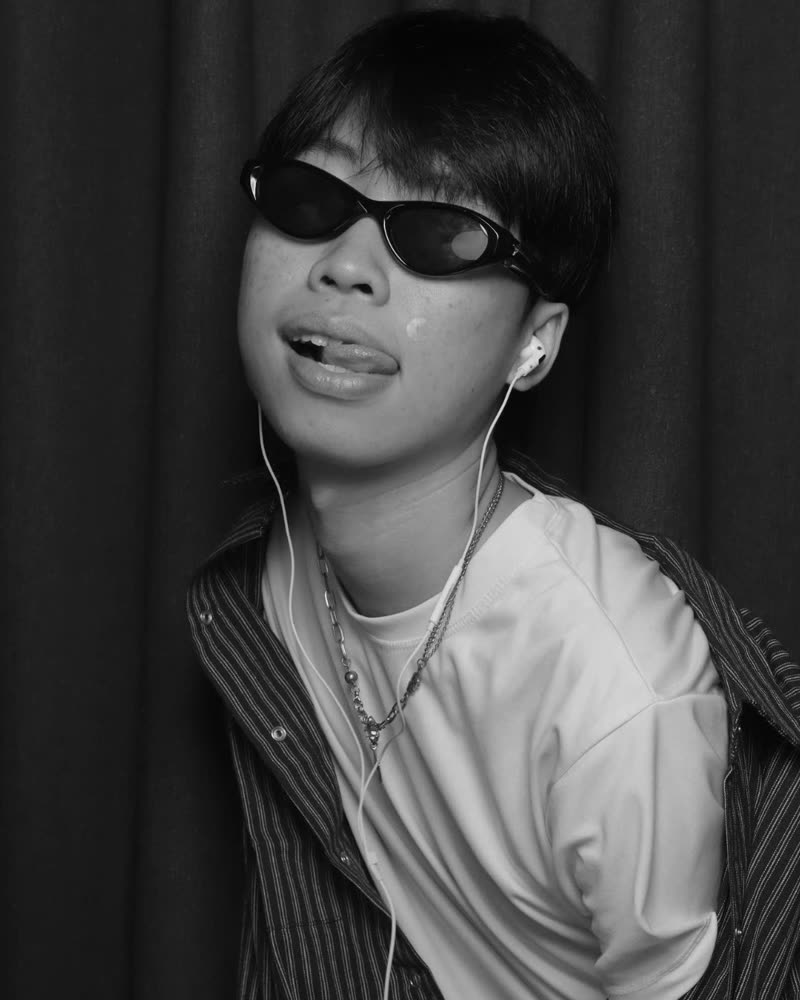
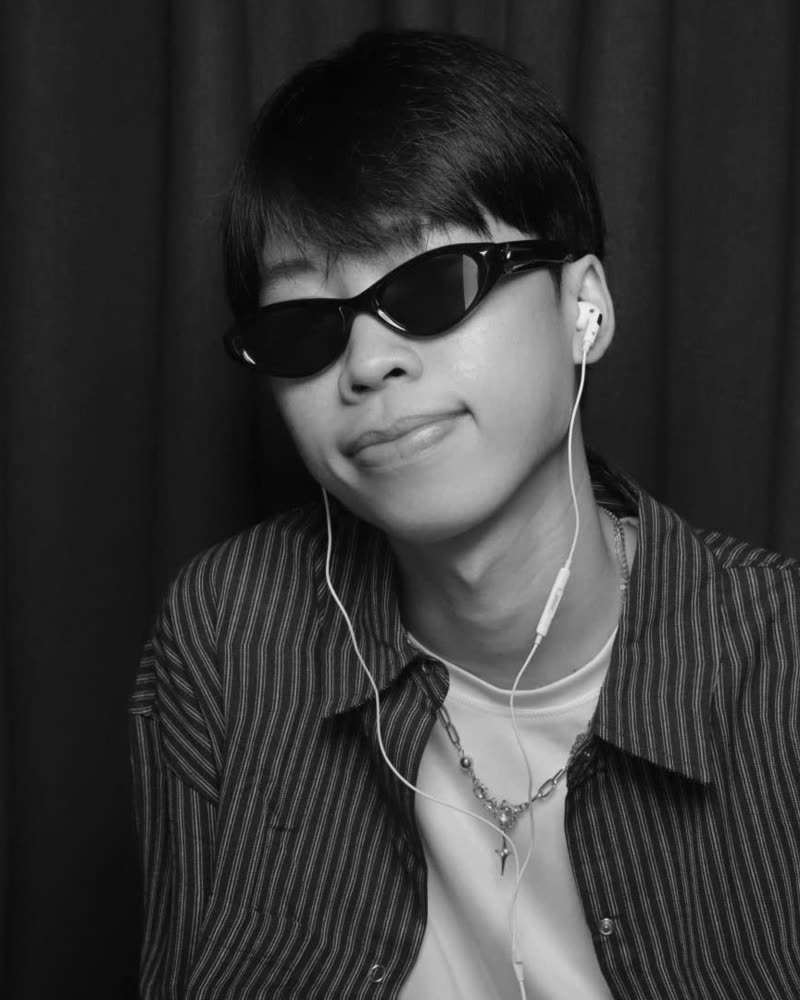
Swap the About portrait
Claude-Session: https://claude.ai/code/session_01NvMY563agUGnxtKGSaRXMv

diff --git a/assets/css/site.css b/assets/css/site.css
@@ -572,7 +572,7 @@ mark.pen.wait { background-size: 0% 0.075em; }
 .c-intro .btn-line { background: rgba(8, 8, 10, 0.35); box-shadow: inset 0 0 0 1px rgba(255, 255, 255, 0.6); color: #fff; }
 .c-intro .btn-line:hover { box-shadow: inset 0 0 0 1px #fff; }
 .c-photo { grid-column: span 5; padding: 0; overflow: hidden; position: relative; min-height: 360px; background: #111; }
-.c-photo img { width: 100%; height: 100%; object-fit: cover; object-position: 50% 20%; display: block; position: absolute; inset: 0; }
+.c-photo img { width: 100%; height: 100%; object-fit: cover; object-position: 50% 4%; display: block; position: absolute; inset: 0; }
 .c-photo::after { content: ""; position: absolute; inset: 0; background: linear-gradient(180deg, transparent 55%, rgba(47, 59, 255, 0.55)); mix-blend-mode: multiply; }
 .c-photo .tag { position: absolute; left: 16px; bottom: 16px; z-index: 1; background: var(--orange); color: var(--on-orange); font-size: 0.8125rem; font-weight: 700; padding: 6px 12px; border-radius: 999px; }
 .c-4 { grid-column: span 4; }

diff --git a/i18n/vi.js b/i18n/vi.js
@@ -391,7 +391,7 @@ window.I18N.vi = {
   "h.idx.k4": "Web · WordPress",
   "ab.intro": "Tôi là Hạo, sinh viên năm 3 ngành Công nghệ Thông tin tại UEH, TP.HCM. Tôi bắt đầu từ những gì người dùng thật sự làm, rồi thiết kế cho điều đó và kiểm thử cùng họ.",
   "ab.city": "TP.HCM",
-  "ab.photo": "Ảnh chân dung đen trắng của Hoàng Quân Hạo đeo kính râm và tai nghe, trước tấm rèm tối.",
+  "ab.photo": "Ảnh chân dung đen trắng của Hoàng Quân Hạo đang mỉm cười, đeo kính râm, mặc áo sơ mi kẻ sọc và đeo tai nghe, trước tấm rèm tối.",
   "ab.lang": "Ngôn ngữ",
   "ab.lang.vi": "Tiếng Việt · Bản ngữ",
   "ab.lang.en": "Tiếng Anh · Cơ bản",

diff --git a/i18n/en.js b/i18n/en.js
@@ -391,7 +391,7 @@ window.I18N.en = {
   "h.idx.k4": "Web · WordPress",
   "ab.intro": "I’m Hạo, a third-year IT student at UEH in Ho Chi Minh City. I start from what people actually do, then design for it and test it with them.",
   "ab.city": "Ho Chi Minh City",
-  "ab.photo": "Black-and-white portrait of Hoàng Quân Hạo in sunglasses and wired earphones, in front of a dark curtain.",
+  "ab.photo": "Black-and-white portrait of Hoàng Quân Hạo smiling, in sunglasses, a striped shirt and wired earphones, in front of a dark curtain.",
   "ab.lang": "Language",
   "ab.lang.vi": "Vietnamese · Native",
   "ab.lang.en": "English · Basic",
